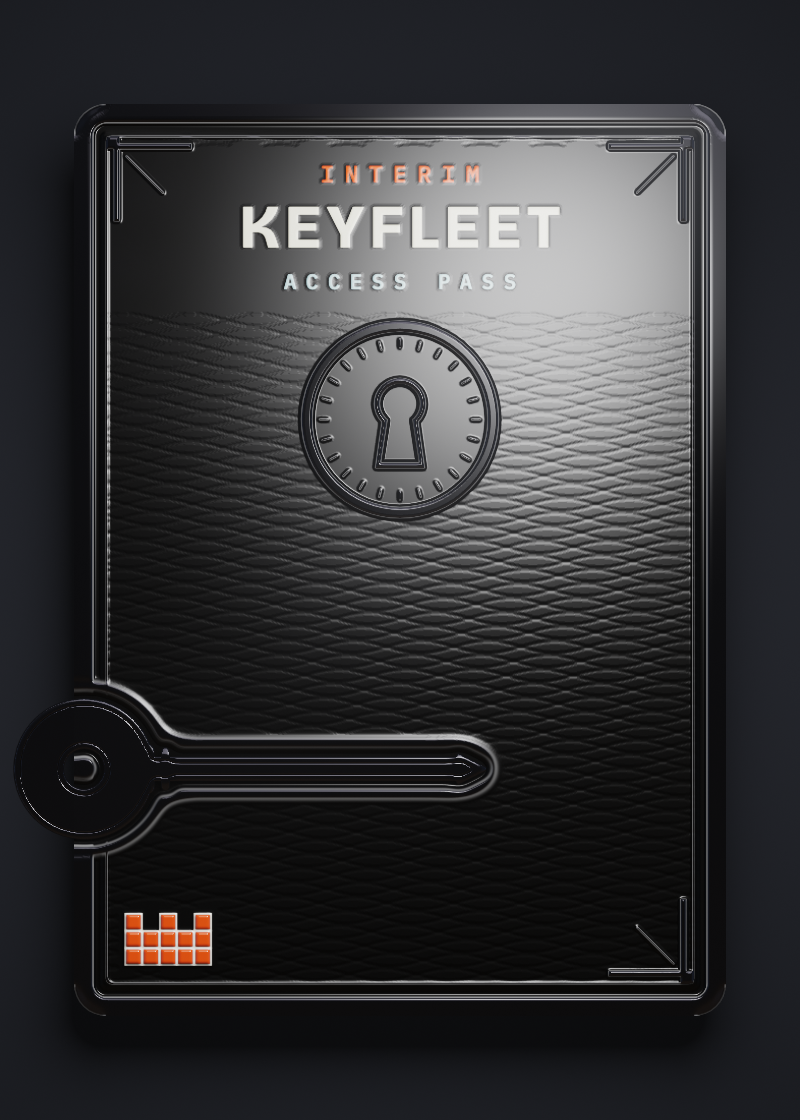
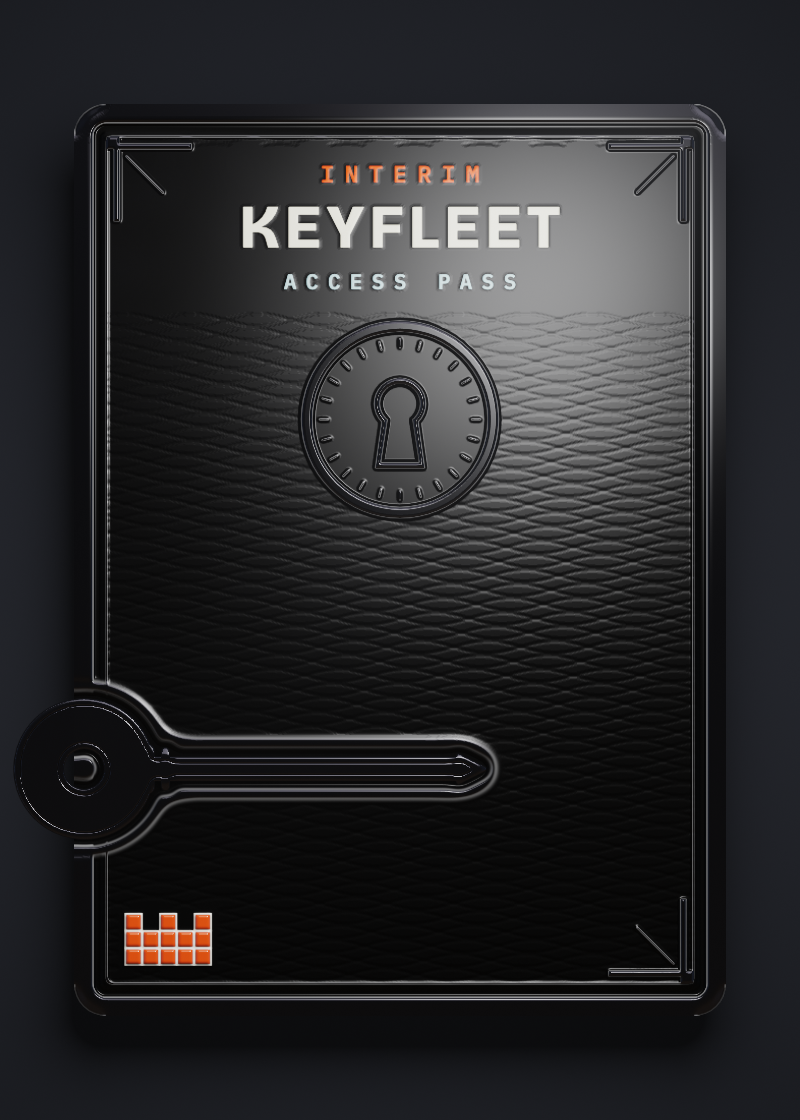
Interim pass: half the white glare on the Shadow card (Sean, 6 Oct)
Sean: "2. reduce the white glare on the card by 50%". The pass's face now
reflects half the studio light (Key Lab v9, shine .5); the extra light in
the glare behind KEYFLEET went from 0.42 to 0.21 in linear light. New
picture sha256 cba04022…1c25c, CPU-drawn and byte-identical across two
runs. Real key cards keep full shine; all eight test pictures are
byte-identical to before.

Changed region(s): [[0.2812, 0.0938, 0.9062, 0.5938], [0.125, 0.125, 0.1562, 0.3125]]

diff --git a/docs/still-pictures/interim-pass/README.md b/docs/still-pictures/interim-pass/README.md
@@ -7,14 +7,17 @@ words INTERIM / KEYFLEET / ACCESS PASS are printed in the Regents colours, with 
 enamel. It is the same picture for every key in every fleet.
 
 Sean chose the Shadow look on 6 October 2026 ("2. a"): a black card and fittings, Tangerine `#FF5B19` INTERIM and
-crown, Platinum `#E5E3D2` KEYFLEET, Powder Blue `#AECACD` ACCESS PASS.
+crown, Platinum `#E5E3D2` KEYFLEET, Powder Blue `#AECACD` ACCESS PASS. The same day he asked to "reduce the white
+glare on the card by 50%": the face now reflects half as much of the studio light (the page's `shine: .5`). The extra
+light in the glare behind KEYFLEET went from 0.42 to 0.21 of full white, measured in linear light. Real key cards
+keep full shine; all eight test keys' pictures are byte-identical to before.
 
 | File | Size | sha256 |
 | --- | --- | --- |
[2 lines of base64/hex data omitted]
 
 The site serves it at `/images/keys/interim-keyfleet-access-pass.png`, and every waiting key's metadata names that
-address as its image. It is drawn by the Key Lab page (version 8 of https://claude.ai/artifact/F2yTo8YVpAVCwQzWZcRRZv,
+address as its image. It is drawn by the Key Lab page (version 9 of https://claude.ai/artifact/F2yTo8YVpAVCwQzWZcRRZv,
 section "The interim pass") with Chromium's CPU renderer; two separate runs gave byte-identical files. The pass is
 drawn by the same card renderer as the real keys, so it shares their light, edge and studio. It does not depend on
 the trait table.

diff --git a/docs/still-pictures/README.md b/docs/still-pictures/README.md
@@ -8,7 +8,7 @@ need their own go.
 
 ## What ran
 
-- **Page.** The Key Lab, version 8 of https://claude.ai/artifact/F2yTo8YVpAVCwQzWZcRRZv. A link of the form
+- **Page.** The Key Lab, version 9 of https://claude.ai/artifact/F2yTo8YVpAVCwQzWZcRRZv. A link of the form
   `#seed=0x…&key=N&fleet=classic&fleetNumber=1&open` opens that key's card with its top line.
 - **Draw.** `table.json` is the trait table file from that page: 8 traits of 16 values each, every trait's weights
[1 lines of base64/hex data omitted]
